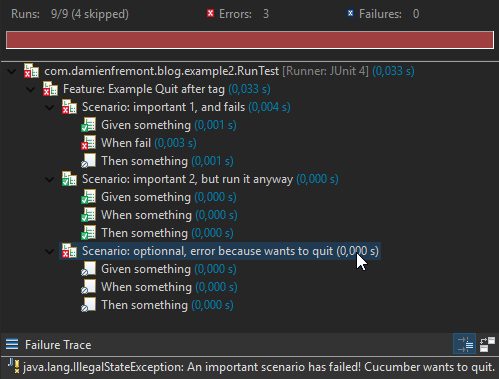
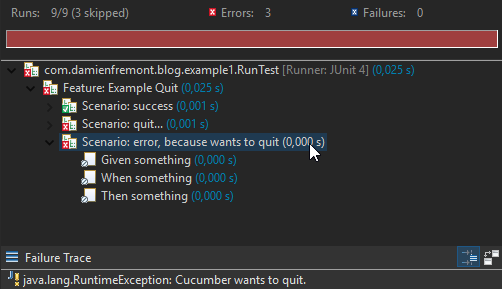
cucumber wants to quit

Changed region(s): [[0.0, 0.0, 1.0, 0.8408], [0.0, 0.8408, 1.0, 0.9965]]

diff --git a/20151027-test-cucumber-wants_to_quit/src/test/java/com/damienfremont/blog/example2/CucumberQuitAfterScenario.java b/20151027-test-cucumber-wants_to_quit/src/test/java/com/damienfremont/blog/example2/CucumberQuitAfterScenario.java
@@ -7,7 +7,7 @@ import cucumber.api.java.After;
 import cucumber.api.java.Before;
 
 public final class CucumberQuitAfterScenario {
-	
+
 	private static final String TAG = "@important";
 	private static boolean prevScenarioFailed = false;
 
@@ -22,9 +22,8 @@ public final class CucumberQuitAfterScenario {
 
 	@Before
 	public void quit_if_tagged_scenario_failed(Scenario scenario) {
-		if (!isTagged(scenario) && prevScenarioFailed) {
+		if (!isTagged(scenario) && prevScenarioFailed)
 			throw new IllegalStateException("An important scenario has failed! Cucumber wants to quit.");
-		}
 	}
 
 	private boolean isTagged(Scenario scenario) {

diff --git a/20151027-test-cucumber-wants_to_quit/src/test/java/com/damienfremont/blog/example1/StepDefinitions.java b/20151027-test-cucumber-wants_to_quit/src/test/java/com/damienfremont/blog/example1/StepDefinitions.java
@@ -14,5 +14,6 @@ public class StepDefinitions {
 	public void quit() throws Throwable {
 		// Tell Cucumber to quit after this scenario is done
 		CucumberWantsToQuit.wantsToQuit = true;
+		throw new RuntimeException("Fail!");
 	}
 }
